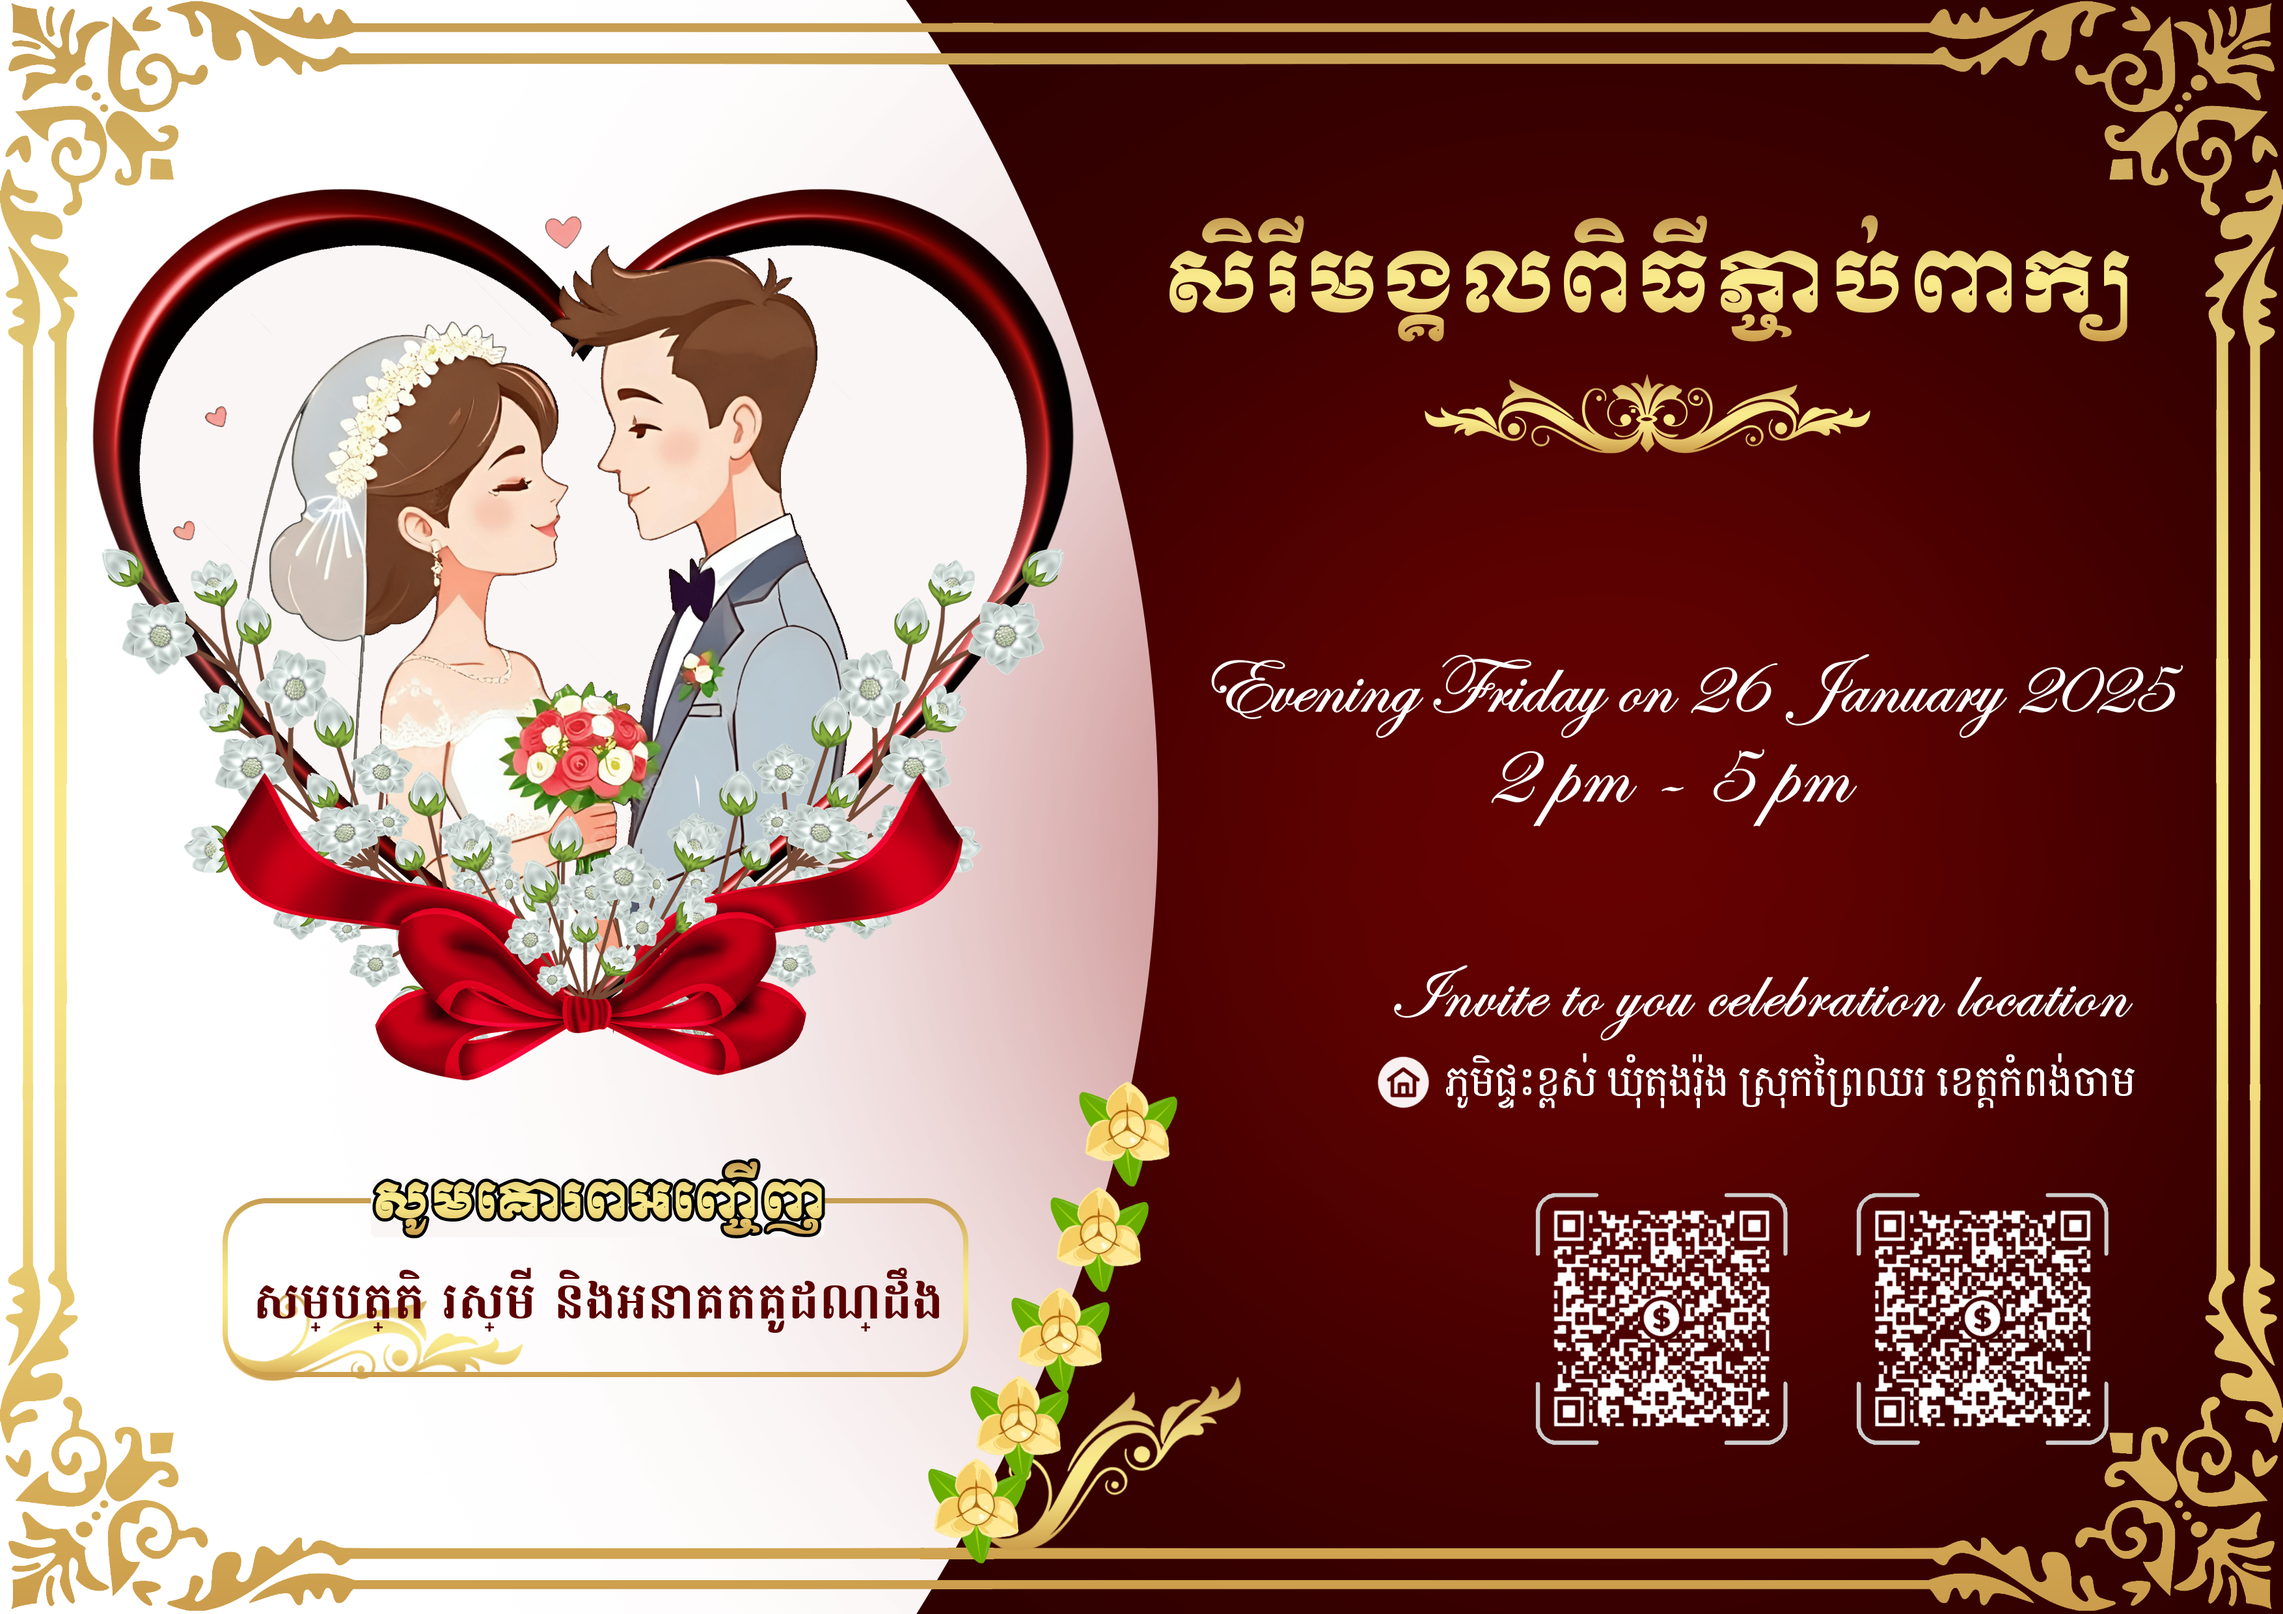
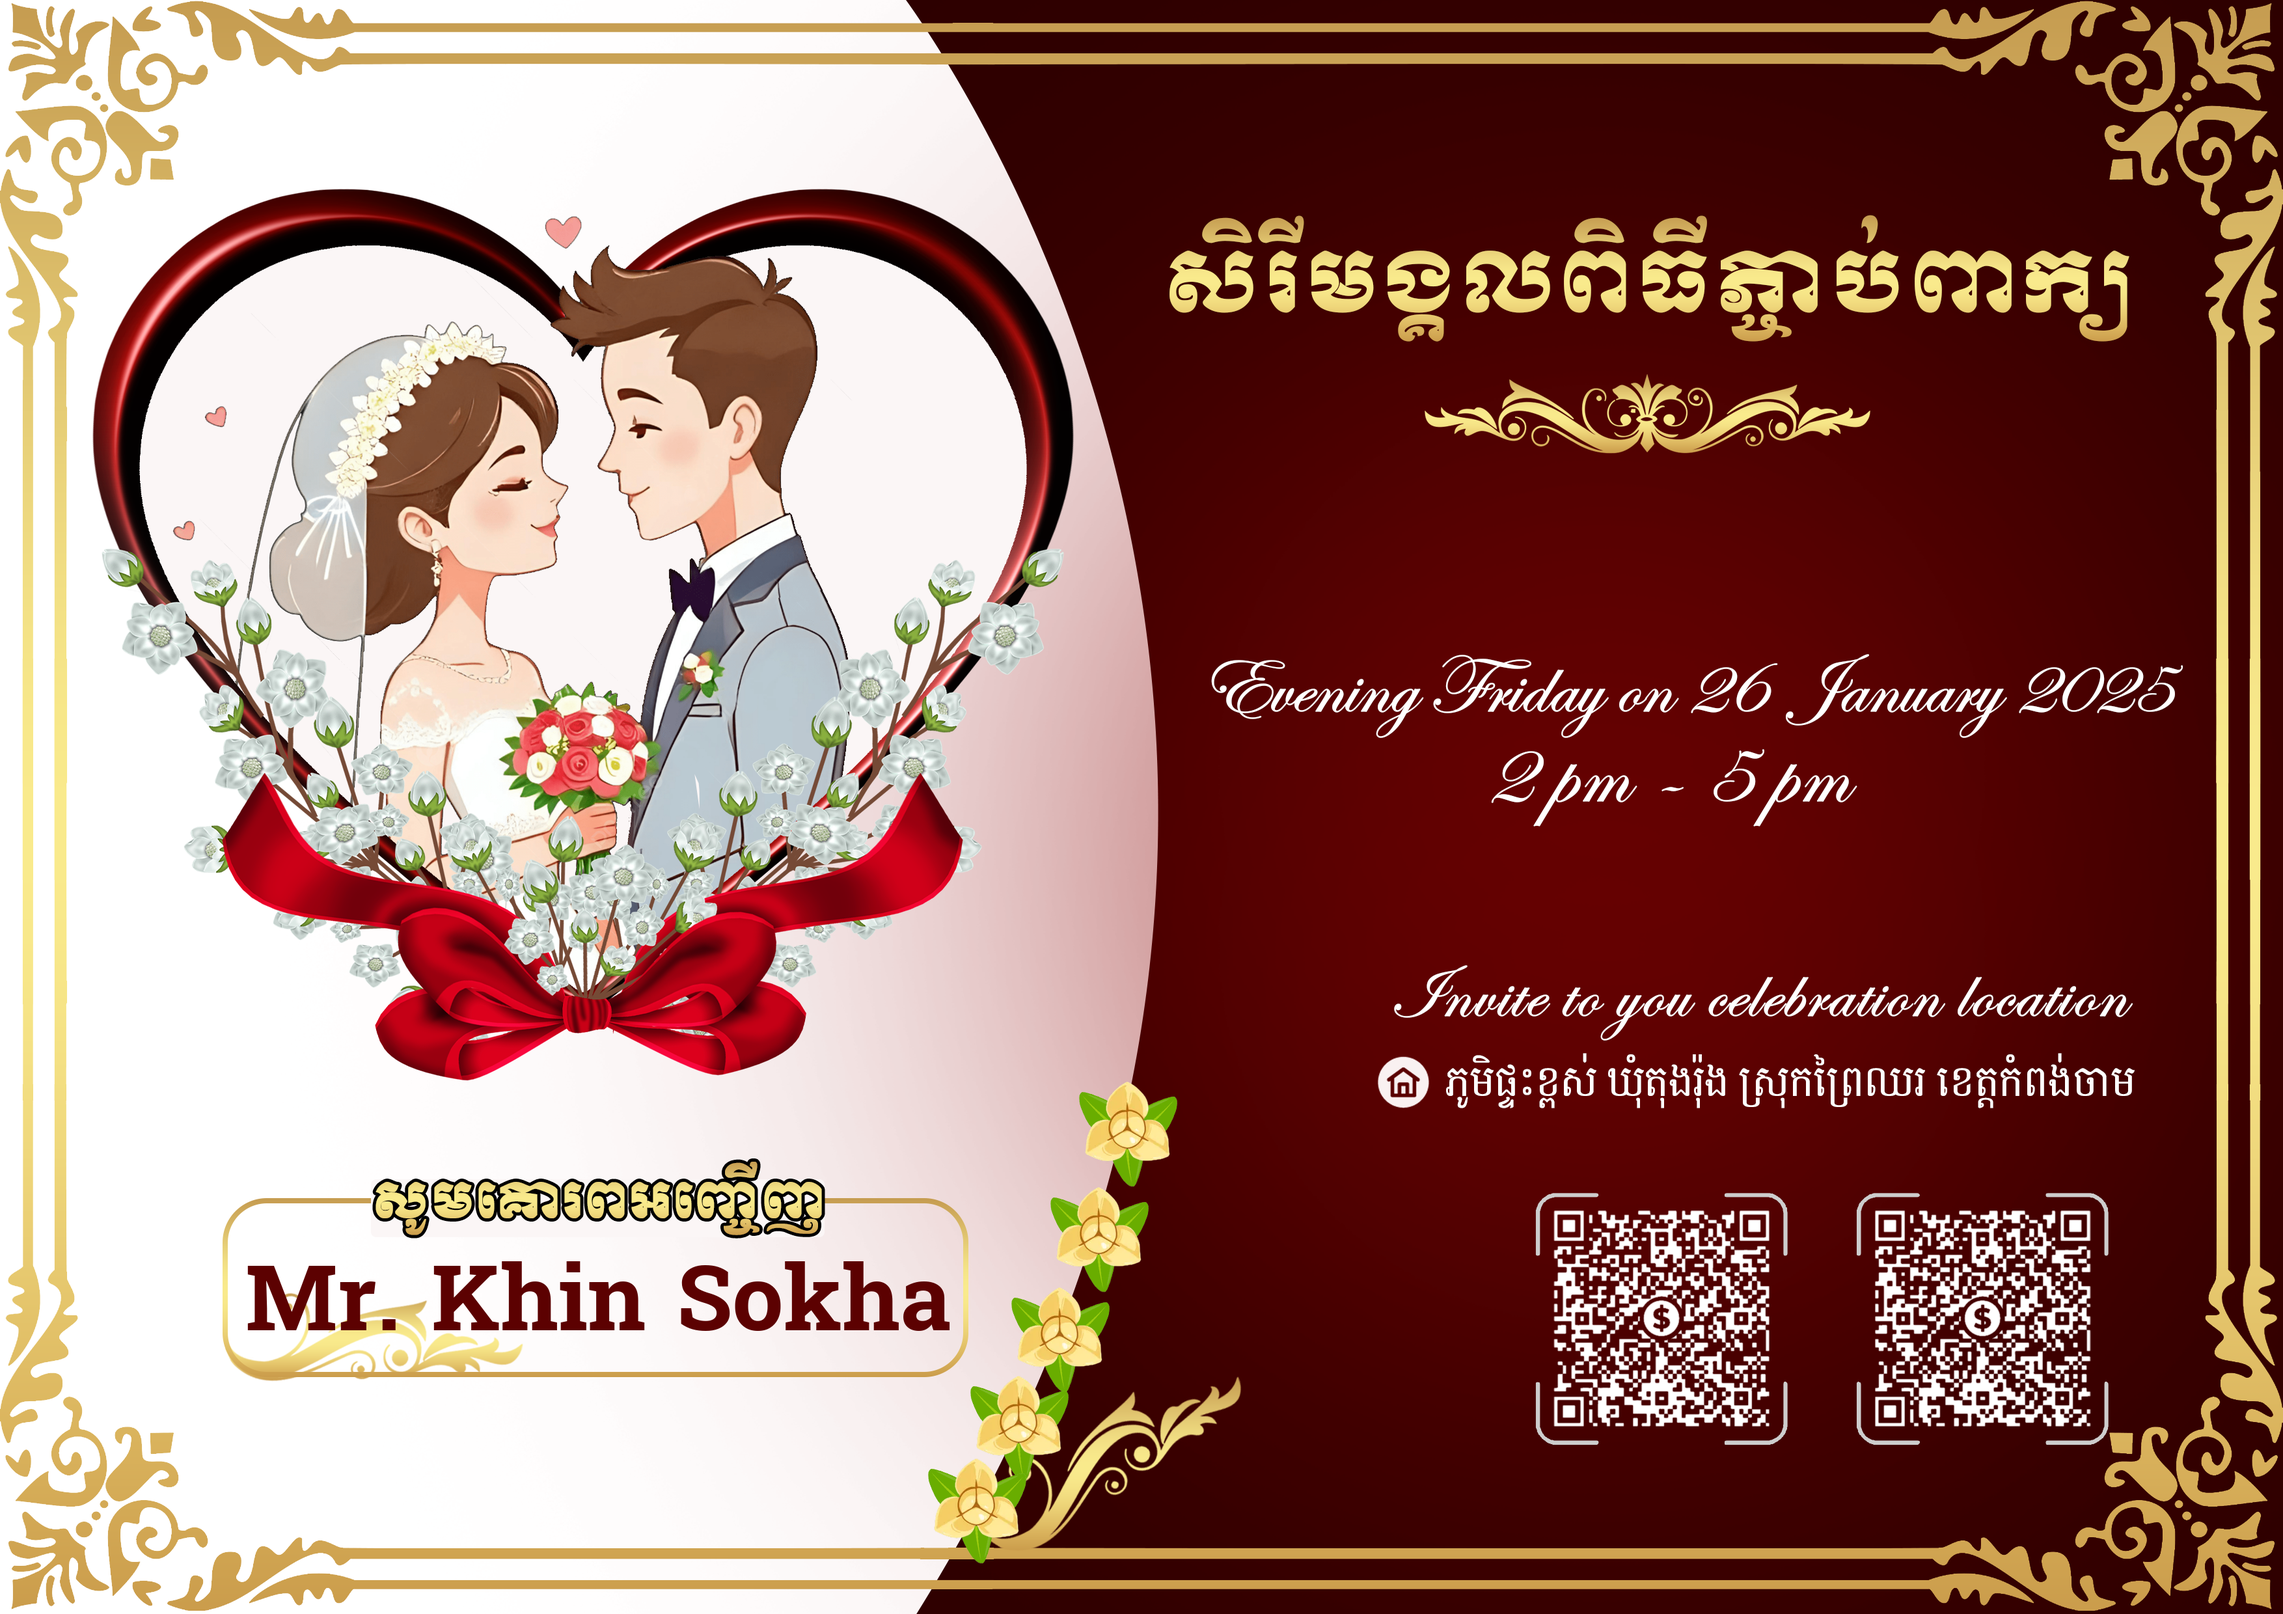
comment message

Changed region(s): [[0.0932, 0.7762, 0.435, 0.8383]]

diff --git a/app.py b/app.py
@@ -470,6 +470,7 @@ def user_login():
             else:
                 return jsonify(data)
     
+active_users = set()
 @app.route(f'/{bot_token}', methods=['POST'])
 def webhook():
     data = request.get_json()
@@ -479,13 +480,25 @@ def webhook():
         user_id = data['message']['from']['id']
         text = data['message'].get('text', '')
 
-        if text.startswith('invitation_card:'):
-            parts = text.split(':', 1)
-            if len(parts) > 1 and parts[1] != "":
-                is_sent, saved_path = invitation_card.generate(parts[1])
+        if text == '/start':
+            active_users.add(user_id)
+            invitation_card.sentMessage(chat_id=chat_id, text_message="សូមផ្ញើឈ្មោះអ្នកដែលចង់អញ្ចើញ 🐙", bot_token=bot_token)
+            return {"message": "success", "code": 0, "status": 0}, 200
+
+        elif text == '/stop':
+            if user_id in active_users:
+                active_users.remove(user_id)
+                invitation_card.sentMessage(chat_id=chat_id, text_message="សូមអរគុណសម្រាប់ការប្រើប្រាស់ 😍", bot_token=bot_token)
+            return {"message": "success", "code": 0, "status": 0}, 200
+        
+        if user_id in active_users:
+            if len(text) > 1 and text != "":
+                is_sent, saved_path = invitation_card.generate(text)
                 if is_sent:
-                    invitation_card.sent(chat_id=chat_id, saved_path=saved_path, bot_token=bot_token)
+                    invitation_card.sentImage(chat_id=chat_id, saved_path=saved_path, bot_token=bot_token)
+                else:
+                    invitation_card.sentMessage(chat_id=chat_id, text_message="ព័ត៏មានពុំត្រឹមត្រូវ សូមព្យាយាមម្ដងទៀត 😢", bot_token=bot_token)
     return {"message": "success", "code": 0, "status": 0}, 200
 
 if __name__ == '__main__':
-    app.run(debug=True, port=8080)
+    app.run(debug=True, port=5000)

diff --git a/invitation_card.py b/invitation_card.py
@@ -52,14 +52,38 @@ def generate(invite_name) -> bool:
         print(f"An error occurred: {e}")
         return False, output_path
     
-def sent(chat_id, saved_path, bot_token):
+def sentImage(chat_id, saved_path, bot_token):
     url = f'https://api.telegram.org/bot{bot_token}/sendPhoto'
     payload = {"chat_id": chat_id,}
     try:
+        waiting_message = sentMessage(chat_id=chat_id, text_message="Please wait a moment", bot_token=bot_token)
         with open(saved_path, 'rb') as photo:
             files = {'photo': photo}
             response = requests.post(url, data=payload, files=files)
+            deleteMessage(chat_id=chat_id, message_id=waiting_message['result']['message_id'], bot_token=bot_token)
             return response.json()
     except Exception as e:
         print(f"Failed to send HTML message: {e}")
+        return None
+    
+def sentMessage(chat_id, text_message, bot_token):
+    url = f'https://api.telegram.org/bot{bot_token}/sendMessage'
+    payload = {"chat_id": chat_id, "text": text_message}
+    try:
+        response = requests.get(url, data=payload)
+        return response.json()
+    except Exception as e:
+        print(f"Failed to send HTML message: {e}")
+        return None
+    
+def deleteMessage(chat_id, message_id, bot_token):
+    url = f'https://api.telegram.org/bot{bot_token}/deleteMessage'
+    payload = {"chat_id": chat_id, "message_id": message_id}
+    try:
+        response = requests.post(url, json=payload)
+        if not response.json().get("ok"):
+            print(f"Telegram Error: {response.json().get('description')}")
+        return response.json()
+    except Exception as e:
+        print(f"Failed to delete message: {e}")
         return None
